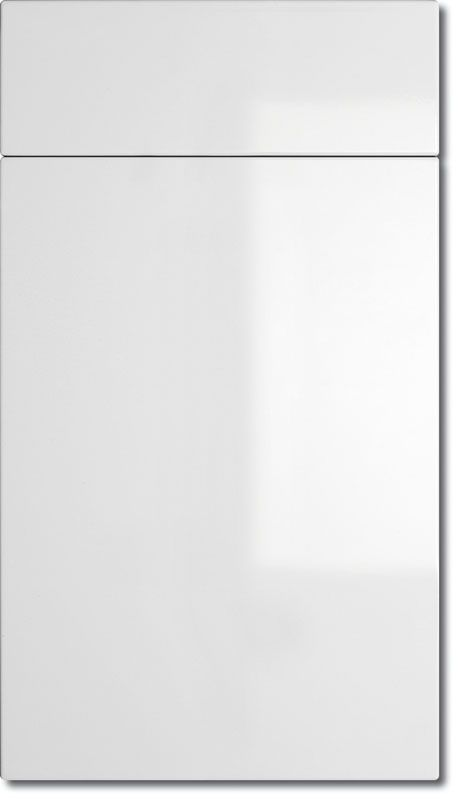
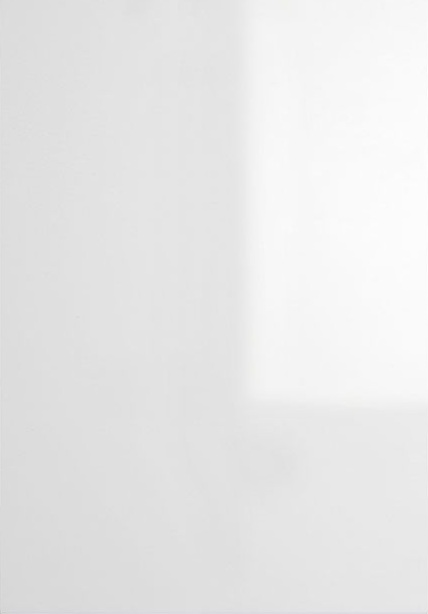
Sheet 15: the actual wiring, crop and notes for the previous commit
1034fd7 landed only the two file renames. A pkill in the same shell
killed the process group before `git add -A` ran, so the commit that
followed picked up just what `git mv` had already staged. Everything the
message described is here:

  index.html    points .swatch.sw-wood and .swatch.sw-gloss at the new
                files, and switches .sw-face::before from
                background-size:auto 128% to cover - the fix for the
                fallback texture showing down the sides of both photo
                tiles in the 2x2 wall under 820px.
  gloss-white-door.jpg
                the crop itself: 459x800 whole door -> 428x614 door face,
                clear of the drawer seam and the studio floor.
  SOURCE.txt    what each face is now and why the gloss file was cut.

Re-verified at 1440, 780 and 400 px wide after committing.

Claude-Session: https://claude.ai/code/session_01Y2HNELkw4GMm3SPqfxGcXY

Changed region(s): [[0.0, 0.0, 1.0, 1.0], [0.0, 0.0, 0.0304, 0.0619]]

diff --git a/index.html b/index.html
@@ -428,10 +428,13 @@ h3{
 .sw-face::before{
   content:"";position:absolute;inset:0;
   background-image:var(--face,none);background-repeat:no-repeat;
-  /* oversized on purpose: it leaves slack to move each sample to a different
-     part of the same scan, so three chips of one decor do not line up into
-     what looks like a single continuous board */
-  background-size:auto 128%;
+  /* cover, not a fixed oversize. The wall is four tall strips on a desktop
+     but a 2x2 of squat tiles under 820px, and a height-based size that
+     covers one shape leaves the drawn fallback showing down the sides of
+     the other. cover holds at every aspect; --face-pos still chooses which
+     part of the scan is in frame, since cover always leaves slack on one
+     axis. */
+  background-size:var(--face-size,cover);
   background-position:var(--face-pos,50% 50%);
 }
 .sw-edge{
@@ -482,11 +485,19 @@ h3{
    cabinet reads as a room, not a chip.
 
    03 Woodgrain and 04 High Gloss stay photographed, because grain and
-   reflection cannot be drawn honestly. ritehome-photos/finishes/SOURCE.txt
-   records what each file is and under what licence. Swap either for a
-   photograph of Ritehome's own sample chip and nothing else has to change. */
-.swatch.sw-wood {--face:url("ritehome-photos/finishes/wood-walnut-dark.jpg"); --face-pos:50% 50%;}
-.swatch.sw-gloss{--face:url("ritehome-photos/finishes/gloss-white.jpg");--face-pos:50% 50%;}
+   reflection cannot be drawn honestly. Both are flat sample faces shot
+   square on, replacing the blurry in-situ crops that used to sit here.
+   ritehome-photos/finishes/SOURCE.txt records what each file is.
+
+   The gloss file was cut down to the door face itself. Its source was a
+   whole door, and a door carries what a sample does not — a drawer seam
+   across the top, the grey studio floor at its edges — and both were
+   landing in frame. Cropping the file rather than zooming past them in CSS
+   keeps the face sharp and lets the plain cover rule above hold at every
+   width. It sits a little right of centre so the window reflection stays
+   in frame: that band IS the finish. */
+.swatch.sw-wood {--face:url("ritehome-photos/finishes/wood-walnut-panel.jpg");--face-pos:50% 50%;}
+.swatch.sw-gloss{--face:url("ritehome-photos/finishes/gloss-white-door.jpg");--face-pos:58% 50%;}
 
 /* the finish, laid over whichever base is in play. Solid, matte and woodgrain
    take nothing; high gloss takes the raking streak. */
